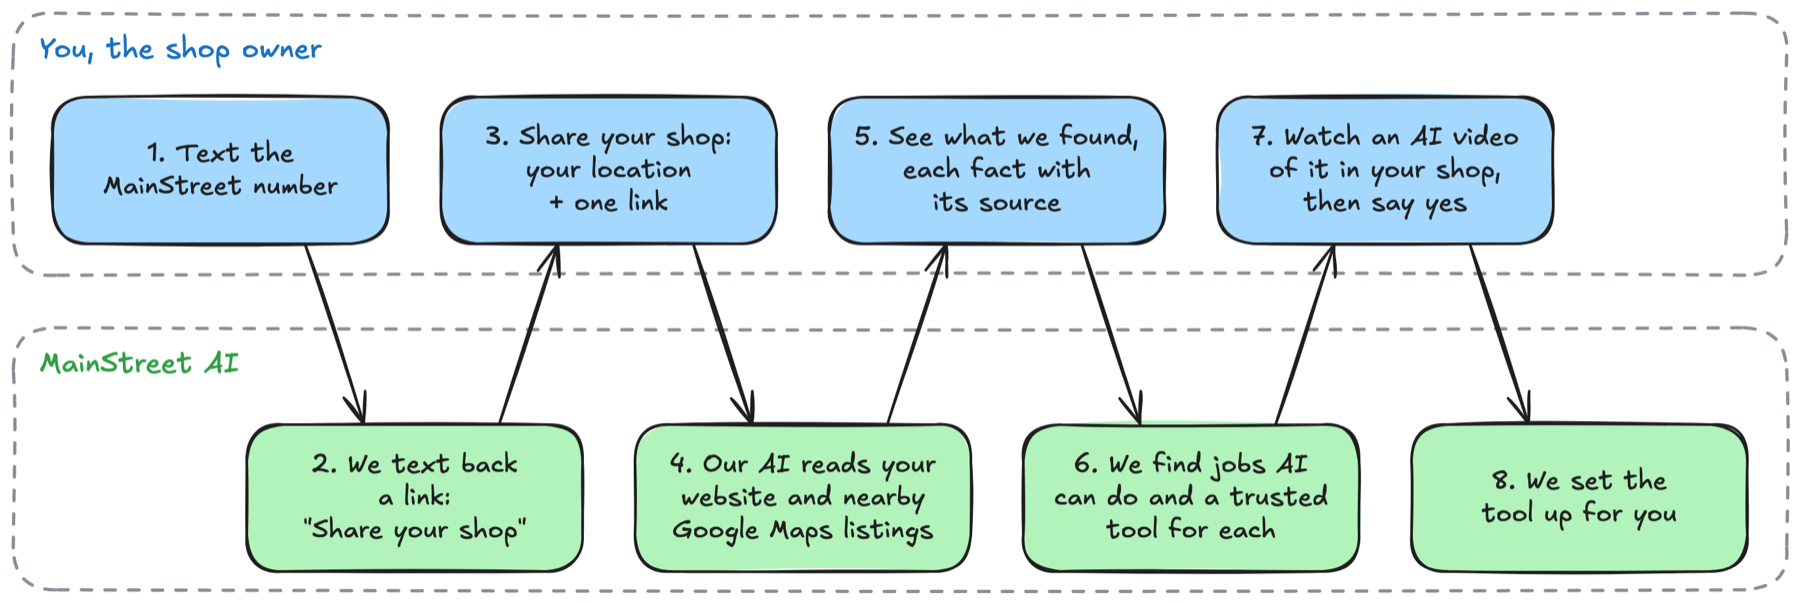
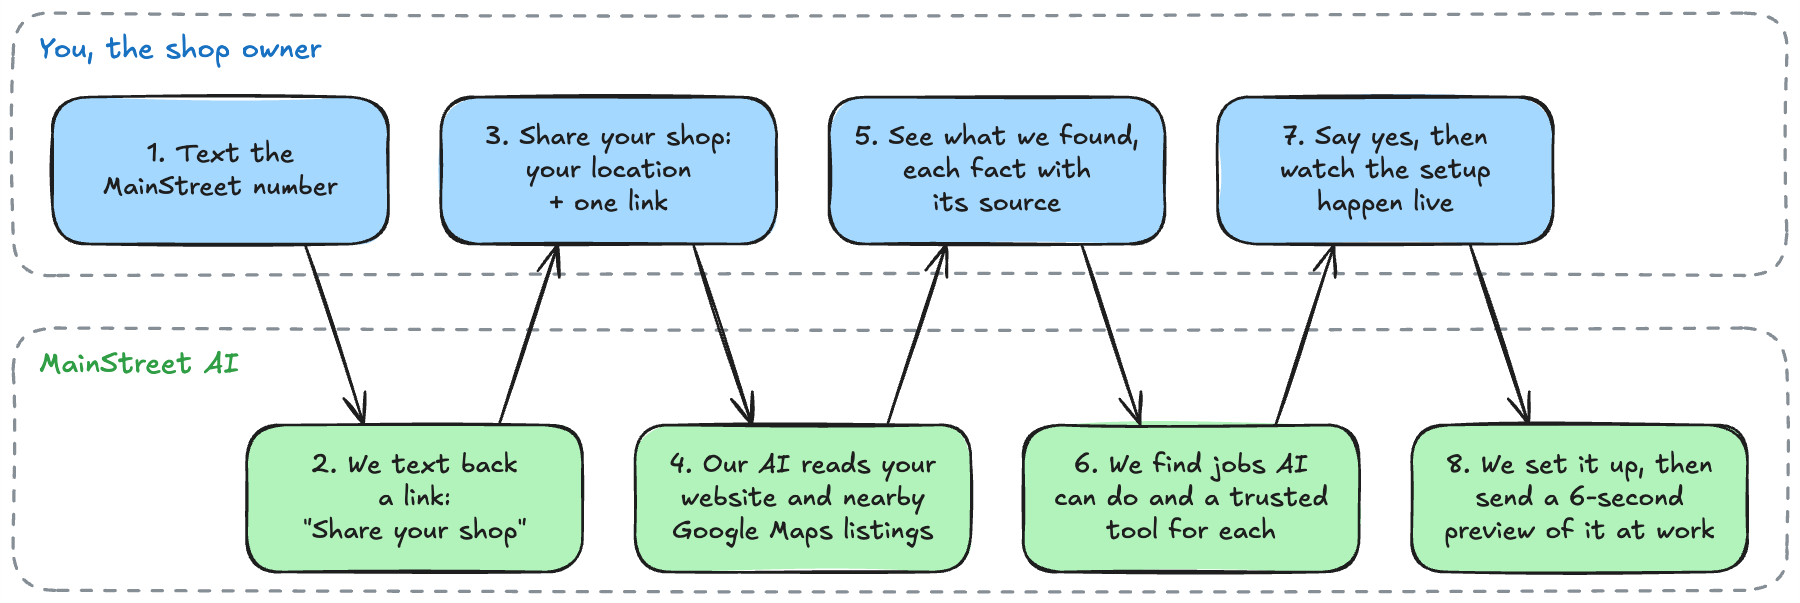
README: previews come after setup, as in the six-step slide. Chart step 7 is now 'say yes, then watch the setup happen live' and step 8 'we set it up, then send a 6-second preview'. Preview videos shows both kinds side by side for Square at Main Street Shears (Veo scene in the shop, recorded run on 

diff --git a/README.md b/README.md
@@ -40,7 +40,7 @@ Both doors, then the six steps an owner goes through: what we found, why we trus
 
 <picture>
   <source media="(prefers-color-scheme: dark)" srcset="docs/assets/how-it-works-dark.png">
-  <img src="docs/assets/how-it-works-light.png" alt="Flowchart in two lanes. You, the shop owner: 1 text the MainStreet number, 3 share your location and one link, 5 see what we found with each fact's source, 7 watch an AI video of the tool in your shop, then say yes. MainStreet AI: 2 texts back a Share your shop link, 4 reads your website and nearby Google Maps listings, 6 finds jobs AI can do and a trusted tool for each, 8 sets the tool up for you.">
+  <img src="docs/assets/how-it-works-light.png" alt="Flowchart in two lanes. You, the shop owner: 1 text the MainStreet number, 3 share your location and one link, 5 see what we found with each fact's source, 7 say yes, then watch the setup happen live. MainStreet AI: 2 texts back a Share your shop link, 4 reads your website and nearby Google Maps listings, 6 finds jobs AI can do and a trusted tool for each, 8 sets the tool up, then sends a 6-second preview of it at work.">
 </picture>
 
 Under the hood:
@@ -55,11 +55,27 @@ The chart's source is [`docs/assets/how-it-works.excalidraw`](docs/assets/how-it
 
 ## Preview videos
 
-Before saying yes, the owner can see the tool at work in a shop like theirs. The agent writes one scene from the shop's profile, and the `preview` tool renders it as a 6-second clip with Google Veo 3.1 Lite through OpenRouter's video API (720p, no audio, about $0.05 a second). The clip plays on the job card, labelled "AI-generated preview", and arrives inline in iMessage.
+The last step. Once the tool is set up, the owner gets a 6-second look at how it helps their shop in real life. A preview comes in one of two kinds; both of these are Square at the same salon, Main Street Shears.
 
-<p align="center">
-  <img src="docs/assets/preview-salon.gif" width="480" alt="AI-generated preview for a salon: a client books a haircut on her phone at night; next morning the stylist sees the day's schedule on a tablet at the front desk">
-</p>
+<table>
+  <tr>
+    <th width="50%">In the shop</th>
+    <th width="50%">On the shop's website</th>
+  </tr>
+  <tr>
+    <td><img src="docs/assets/preview-salon.gif" width="100%" alt="AI-generated preview for a salon: a client books a haircut on her phone at night; next morning the owner sees the day's schedule on a tablet at the front desk"></td>
+    <td><img src="docs/assets/preview-salon-site.gif" width="100%" alt="Preview on a copy of the Main Street Shears website: a cursor opens Book online, picks Women's cut and style, Saturday at 10:30, presses Book, and the widget shows Booked: women's cut and style, Saturday 10:30 am, 38 W Main Street, Westminster"></td>
+  </tr>
+  <tr>
+    <td>A client books a haircut on her phone at night. Next morning the owner sees the day's schedule on a tablet at the front desk.</td>
+    <td>A customer opens Book online on the shop's own page, picks a cut for Saturday at 10:30 and gets the booking confirmed.</td>
+  </tr>
+</table>
+
+- **In the shop.** The agent writes one scene from the shop's profile, and `preview make` renders it with Google Veo 3.1 Lite through OpenRouter's video API (720p, no audio, about $0.05 a second). It is labelled "AI-generated preview".
+- **On the shop's website.** The agent reads the shop's homepage in a cloud browser and rebuilds it as one page with the tool added, using the shop's real words. `preview record` then films the tool working there in a Browser Use browser: the cursor opens the tool, the customer's request goes in, and the answer comes back. The recording costs nothing in video credits.
+
+Either kind plays on the shop's page and arrives inline in iMessage. An owner can also ask for one on any job before saying yes.
 
 ## The market
 
@@ -67,11 +83,11 @@ Before saying yes, the owner can see the tool at work in a shop like theirs. The
 
 | | Who | How many | Source |
 |---|---|---|---|
-| TAM | Every U.S. small business | 36.2M | SBA Office of Advocacy, Feb 2026 |
-| SAM | U.S. small businesses not using AI yet (36.2M x 80.2%) | 29.0M | Census BTOS, May 2026 |
-| SOM | Maryland small businesses not using AI yet (696,710 x 80.2%) | 559K | SBA Advocacy, Maryland profile 2025 |
+| TAM | U.S. small businesses with employees (36.2M counting solo businesses) | 6.4M | SBA Advocacy, Census, 2026 |
+| SAM | Yearly AI-tool spend Main Street could route through one trusted assistant (6.4M x 2 tools x $30-79 a month) | $4.5-12B | Our estimate |
+| SOM | Maryland small businesses not using AI yet (696,710 x 80.2%) | 559K | SBA Advocacy, Maryland profile 2025; Census BTOS, May 2026 |
 
-Only 19.8% of U.S. businesses used AI in the past two weeks (Census BTOS, May 2026), and 22% of firms not planning to use it don't know what it can do (Census CES WP 26-25). The biggest directory lists 50,000+ tools and makers pay to be seen there. Our catalog is 85 tools a person approved (261 found, 207 read, 109 scored), with no paid placement. Each pick carries a trust score instead of star ratings: six checks, each linked to evidence (who's behind it, age, data handling, public prices, independent reviews, still shipping), and 75 out of 100 or more plus a person's sign-off makes it Verified. "Still shipping" is there because tools do vanish: Relay.app shut down and deleted all its workflows in August 2026.
+Only 19.8% of U.S. businesses used AI in the past two weeks (Census BTOS, May 2026). The playbook is OpenRouter's: one door to 400+ AI models for about the same 5% fee on any model, then a $7B+ Stripe deal in August 2026. We do that for Main Street's AI tools. Of 261 tools found, a person approved 85 and 19 earn Verified, and no maker can pay for placement. Verified is a trust score, not a star rating: six checks, each linked to evidence (who's behind it, age, data handling, public prices, independent reviews, still shipping), plus a person's sign-off. Policy tailwind: H.R. 5764 passed 395-14 on January 20, 2026 and is pending in the Senate.
 
 ## Layout
 
